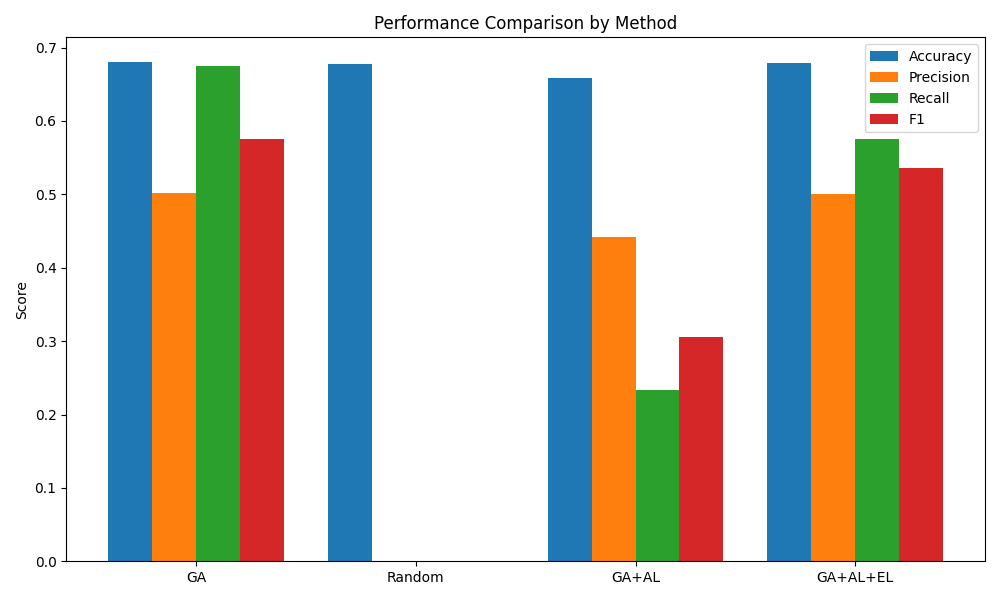
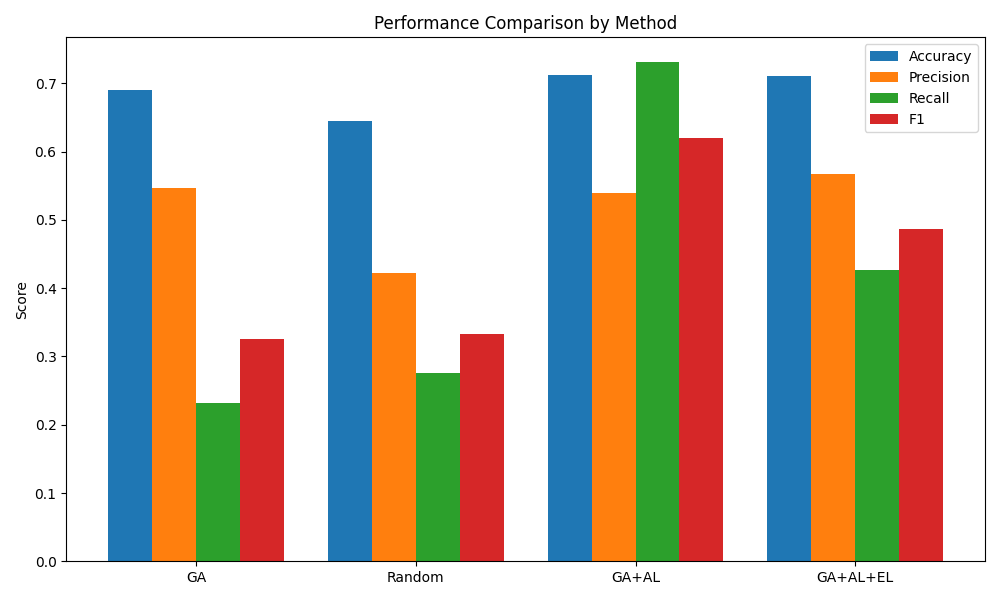
Revert "Feature Selection implementation"
This reverts commit 2c2d8f94dfc728f3819cfd8601ab114fc4618d41.

diff --git a/src/data_loader.py b/src/data_loader.py
@@ -1,6 +1,5 @@
 import pandas as pd
 import numpy as np
-from sklearn.impute import SimpleImputer
 
 def load_higgs_data(csv_path):
     """
@@ -9,54 +8,23 @@ def load_higgs_data(csv_path):
     df = pd.read_csv(csv_path)
     return df
 
-def analyze_missing_values(df):
+def clean_missing_values(df, missing_val=-999.0):
     """
-    EDA: Calculate and print the percentage of missing values for each column.
+    Handle missing values represented by -999.0.
+    Replaces them with NaN for easier handling with sklearn.
     """
-    missing_pct = df.isnull().mean() * 100
-    missing_report = missing_pct[missing_pct > 0].sort_values(ascending=False)
-    
-    print("\nMissing Values Report (Percentage):")
-    if missing_report.empty:
-        print("No missing values found.")
-    else:
-        print(missing_report)
-    print("-" * 30)
-    return missing_pct
-
-def clean_missing_values(df, missing_val=-999.0, threshold=70.0):
-    """
-    Handle missing values:
-    1. Replaces missing_val with NaN.
-    2. Drops columns with missing values > threshold (%).
-    3. Imputes remaining missing values using SimpleImputer with median strategy.
-    """
-    # Replace the specific missing value marker with NaN
     df_cleaned = df.replace(missing_val, np.nan)
     
-    # Perform EDA to check % of missing values
-    missing_pct = analyze_missing_values(df_cleaned)
-    
-    # Identify metadata columns to exclude from dropping/imputation if needed
+    # Identify numeric columns (excluding metadata and label)
+    # Based on dataset_sample.json, metadata columns are: EventId, Weight, KaggleSet, KaggleWeight, Label
     metadata_cols = ['EventId', 'Weight', 'KaggleSet', 'KaggleWeight', 'Label']
-    
-    # 1. Drop features with high missingness (> 70%)
-    cols_to_drop = missing_pct[missing_pct > threshold].index.tolist()
-    # Ensure we don't drop metadata columns even if they have missing values (though they shouldn't)
-    cols_to_drop = [col for col in cols_to_drop if col not in metadata_cols]
-    
-    if cols_to_drop:
-        print(f"Dropping columns with >{threshold}% missing values: {cols_to_drop}")
-        df_cleaned = df_cleaned.drop(columns=cols_to_drop)
-    
-    # Identify remaining feature columns for imputation
     feature_cols = [col for col in df_cleaned.columns if col not in metadata_cols]
     
-    # 2. Handle missing values with SimpleImputer class (median strategy)
-    imputer = SimpleImputer(strategy='median')
-    
-    if df_cleaned[feature_cols].isnull().any().any():
-        print("Imputing remaining missing values using SimpleImputer (median)...")
-        df_cleaned[feature_cols] = imputer.fit_transform(df_cleaned[feature_cols])
+    # Simple imputation: replace NaN with the median of the column
+    # We use median because some distributions might be skewed
+    for col in feature_cols:
+        if df_cleaned[col].isnull().any():
+            median = df_cleaned[col].median()
+            df_cleaned[col] = df_cleaned[col].fillna(median)
             
     return df_cleaned

diff --git a/experiment/report.md b/experiment/report.md
@@ -4,7 +4,7 @@
 
 | Method | Accuracy | Precision | Recall | F1-Score | Time (s) |
 |--------|----------|-----------|--------|----------|----------|
-| GA | 0.6800 | 0.5023 | 0.6749 | 0.5760 | 5.81 |
-| Random | 0.6780 | 0.0000 | 0.0000 | 0.0000 | 0.98 |
-| GA+AL | 0.6580 | 0.4414 | 0.2340 | 0.3058 | 1.02 |
-| GA+AL+EL | 0.6787 | 0.5009 | 0.5756 | 0.5356 | 1.16 |
+| GA | 0.6907 | 0.5463 | 0.2319 | 0.3256 | 5.30 |
+| Random | 0.6453 | 0.4222 | 0.2754 | 0.3333 | 0.59 |
+| GA+AL | 0.7120 | 0.5389 | 0.7308 | 0.6204 | 0.59 |
+| GA+AL+EL | 0.7107 | 0.5675 | 0.4265 | 0.4870 | 0.68 |
